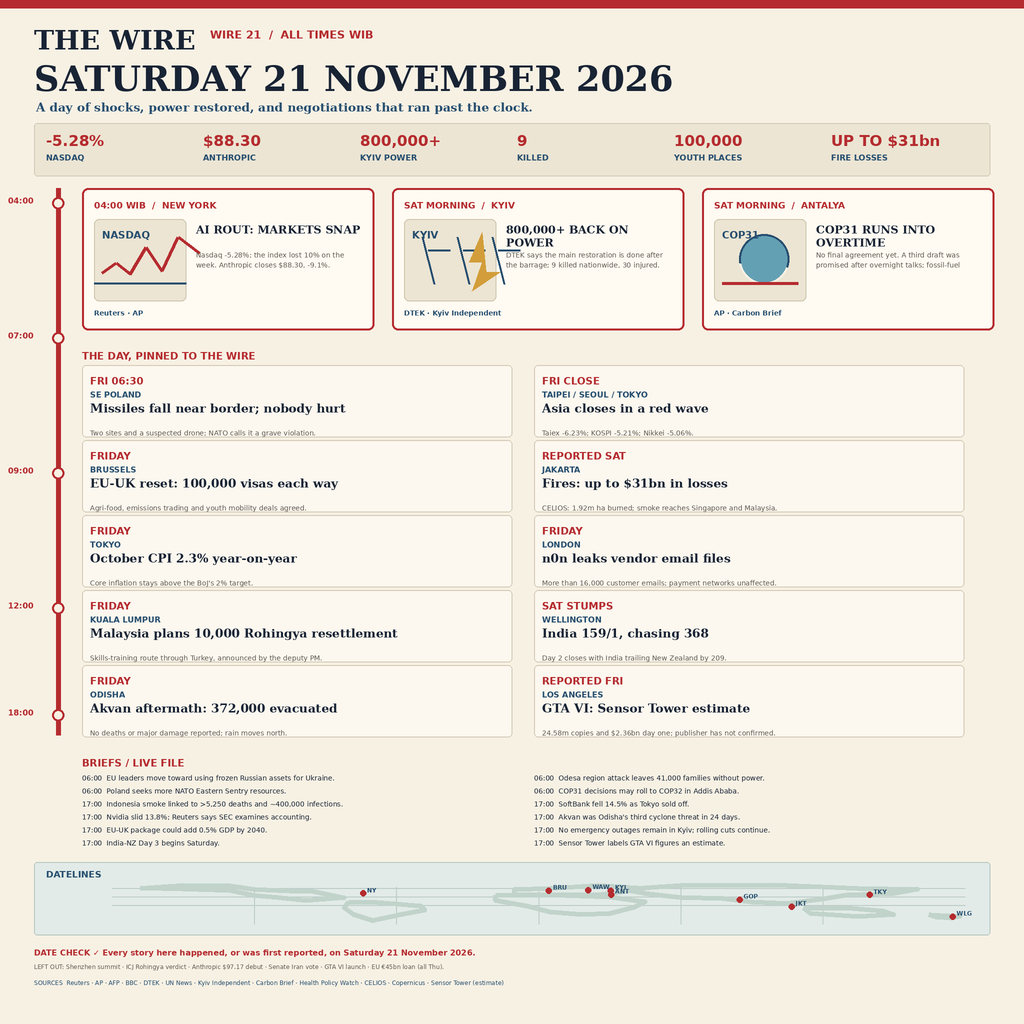
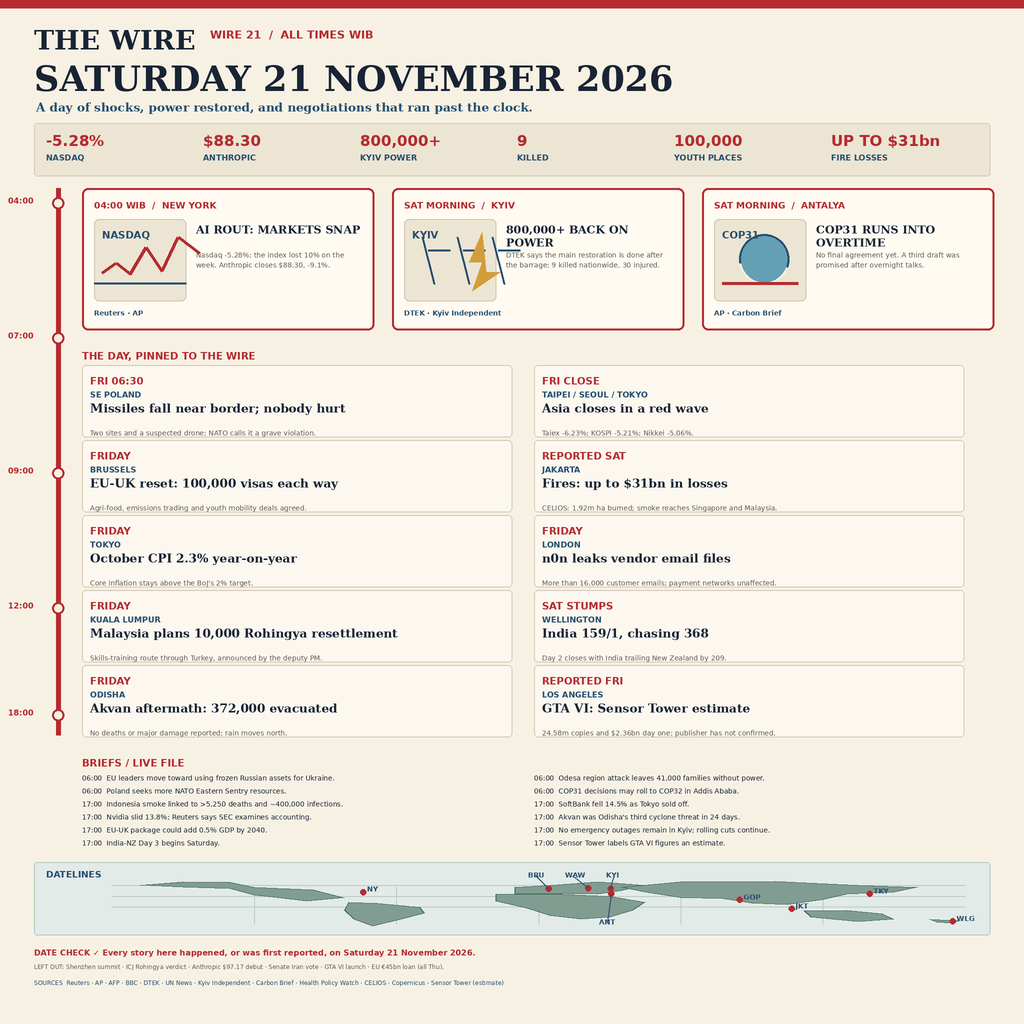
Fix COP31 copy clipping and dateline map legibility

diff --git a/render.py b/render.py
@@ -86,14 +86,14 @@ def main():
         d.ellipse(((spine_x-6)*S,(yy-6)*S,(spine_x+6)*S,(yy+6)*S),fill=paper,outline=red,width=2*S)
         t(d,(8,yy-7),hr,font("sansb",8),red)
     # flash cards
-    cards=[(82,188,292,"04:00 WIB  /  NEW YORK","AI ROUT: MARKETS SNAP","Nasdaq -5.28%; the index lost 10% on the week. Anthropic closes $88.30, -9.1%.","market","Reuters · AP"),(392,188,292,"SAT MORNING  /  KYIV","800,000+ BACK ON POWER","DTEK says the main restoration is done after the barrage; 9 killed nationwide, 30 injured.","power","DTEK · Kyiv Independent"),(702,188,292,"SAT MORNING  /  ANTALYA","COP31 RUNS INTO OVERTIME","No final agreement yet. A third draft was promised after overnight talks; fossil-fuel language remains out.","climate","AP · Carbon Brief")]
+    cards=[(82,188,292,"04:00 WIB  /  NEW YORK","AI ROUT: MARKETS SNAP","Nasdaq -5.28%; the index lost 10% on the week. Anthropic closes $88.30, -9.1%.","market","Reuters · AP"),(392,188,292,"SAT MORNING  /  KYIV","800,000+ BACK ON POWER","DTEK says the main restoration is done after the barrage; 9 killed nationwide, 30 injured.","power","DTEK · Kyiv Independent"),(702,188,292,"SAT MORNING  /  ANTALYA","COP31 RUNS INTO OVERTIME","No final agreement yet. A third draft was promised after overnight talks.","climate","AP · Carbon Brief")]
     for x,y,w,stamp,head,body,kind,src in cards:
         box(d,(x,y,x+w,y+142),(255,251,242),outline=red,width=2,r=6)
         t(d,(x+12,y+12),stamp,font("sansb",9),red)
         scene(d,kind,x+12,y+31,92,82)
         hf=font("serifb",11)
         for j,line in enumerate(wrap(d,head,hf,w-126)[:2]): t(d,(x+114,y+35+j*13),line,hf,ink)
-        for j,line in enumerate(wrap(d,body,font("sans",7),w-126)[:2]): t(d,(x+114,y+63+j*10),line,font("sans",7),muted)
+        for j,line in enumerate(wrap(d,body,font("sans",7),w-126)[:4 if kind == "climate" else 2]): t(d,(x+114,y+63+j*10),line,font("sans",7),muted)
         t(d,(x+12,y+121),src,font("sansb",7),blue)
     # mid bulletins
     t(d,(82,350),"THE DAY, PINNED TO THE WIRE",font("sansb",10),red)
@@ -113,12 +113,13 @@ def main():
     # Hand-drawn equirectangular outline, cropped to the populated latitudes.
     map_left,map_right=112,965
     def project(lon,lat):
-        return (map_left+(lon+180)*(map_right-map_left)/360, y+26+(60-lat)*34/120)
+        return (map_left+(lon+180)*(map_right-map_left)/360, y+18+(75-lat)*48/135)
     for lon in [-120,-60,0,60,120]:
         gx,_=project(lon,0); d.line((gx*S,(y+25)*S,gx*S,(y+62)*S),fill=(190,205,201),width=1*S)
     for lat in [0,30,60]:
         _,gy=project(0,lat); d.line((map_left*S,gy*S,map_right*S,gy*S),fill=(190,205,201),width=1*S)
-    land=(193,211,202)
+    land=(129,157,145)
+    coast=(67,103,94)
     continents=[[( -168,60),(-150,70),(-130,68),(-120,55),(-105,50),(-95,48),(-82,25),(-98,15),(-110,25),(-120,32),(-130,50),(-150,55),(-168,60)],
       [(-80,12),(-68,10),(-50,-2),(-48,-18),(-58,-35),(-70,-55),(-78,-35),(-82,-10),(-80,12)],
       [(-10,35),(-10,55),(5,60),(25,70),(45,60),(35,45),(25,35),(10,36),(-10,35)],
@@ -127,12 +128,17 @@ def main():
       [(112,-12),(130,-10),(145,-20),(150,-35),(135,-42),(115,-30),(112,-12)],
       [(165,-35),(178,-40),(174,-46),(168,-44),(165,-35)]]
     for poly in continents:
-        d.line([tuple(int(v*S) for v in project(lon,lat)) for lon,lat in poly],fill=land,width=5*S,joint="curve")
+        d.polygon([tuple(int(v*S) for v in project(lon,lat)) for lon,lat in poly],fill=land,outline=coast,width=S)
     places=[("NY",-74.0,40.7),("BRU",4.35,50.85),("WAW",21,52.2),("KYI",30.5,50.4),("ANT",30.7,36.9),("TKY",139.7,35.7),("GOP",84.9,19.3),("JKT",106.8,-6.2),("WLG",174.8,-41.3)]
+    label_positions={"BRU":(528,y+9), "WAW":(565,y+9),
+                     "KYI":(606,y+9), "ANT":(599,y+56)}
     for name,lon,lat in places:
         px,py=project(lon,lat)
         d.ellipse(((px-3)*S,(py-3)*S,(px+3)*S,(py+3)*S),fill=red)
-        t(d,(px+4,py-7),name,font("sansb",6),blue)
+        lx,ly=label_positions.get(name,(px+4,py-7))
+        if name in label_positions:
+            d.line((px*S,py*S,(lx+8)*S,(ly+5)*S),fill=blue,width=S)
+        t(d,(lx,ly),name,font("sansb",7),blue)
     # date check/footer
     t(d,(34,948),"DATE CHECK ✓ Every story here happened, or was first reported, on Saturday 21 November 2026.",font("sansb",8),red)
     t(d,(34,963),"LEFT OUT: Shenzhen summit · ICJ Rohingya verdict · Anthropic $97.17 debut · Senate Iran vote · GTA VI launch · EU €45bn loan (all Thu).",font("sans",6),muted)
